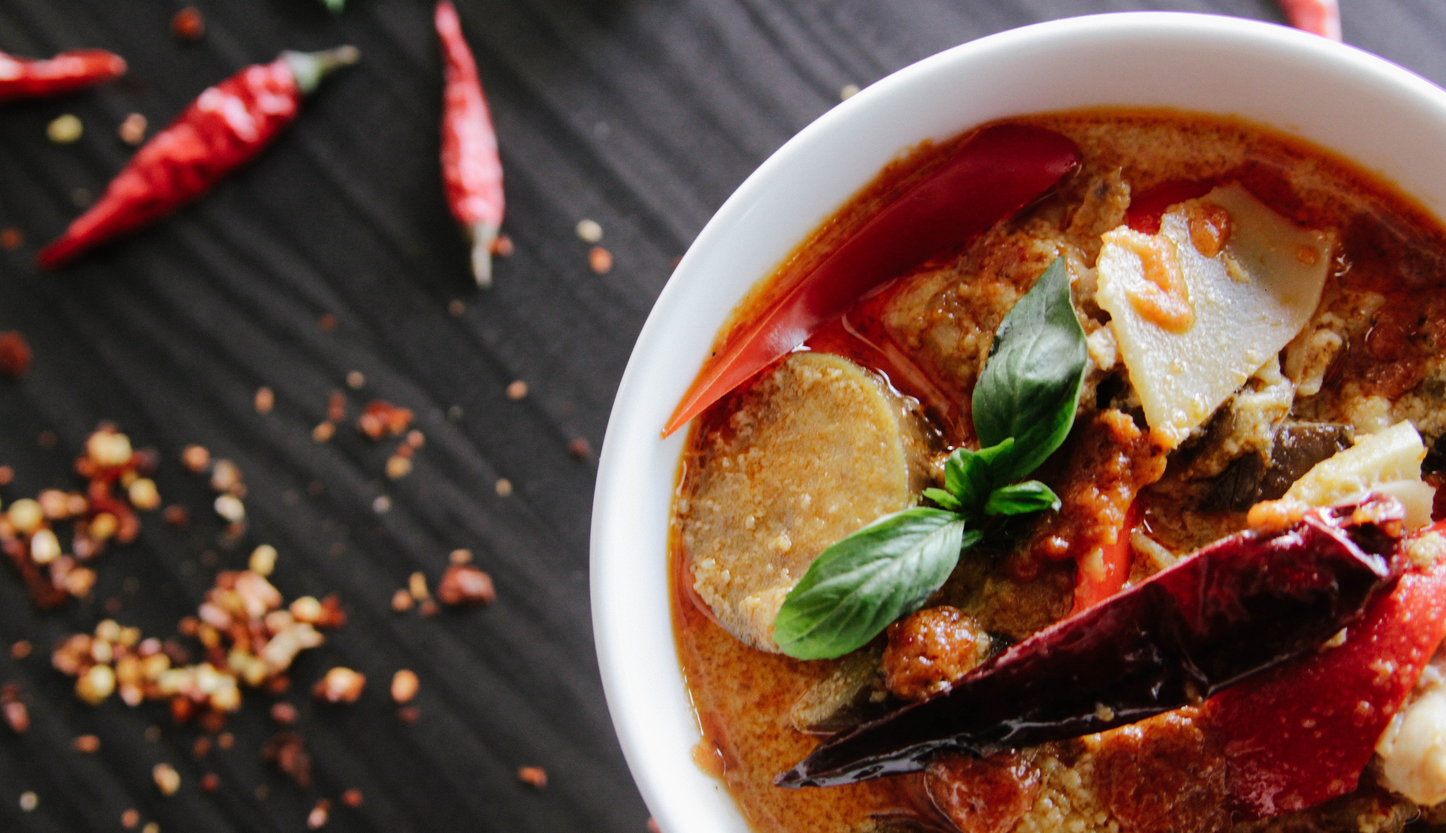
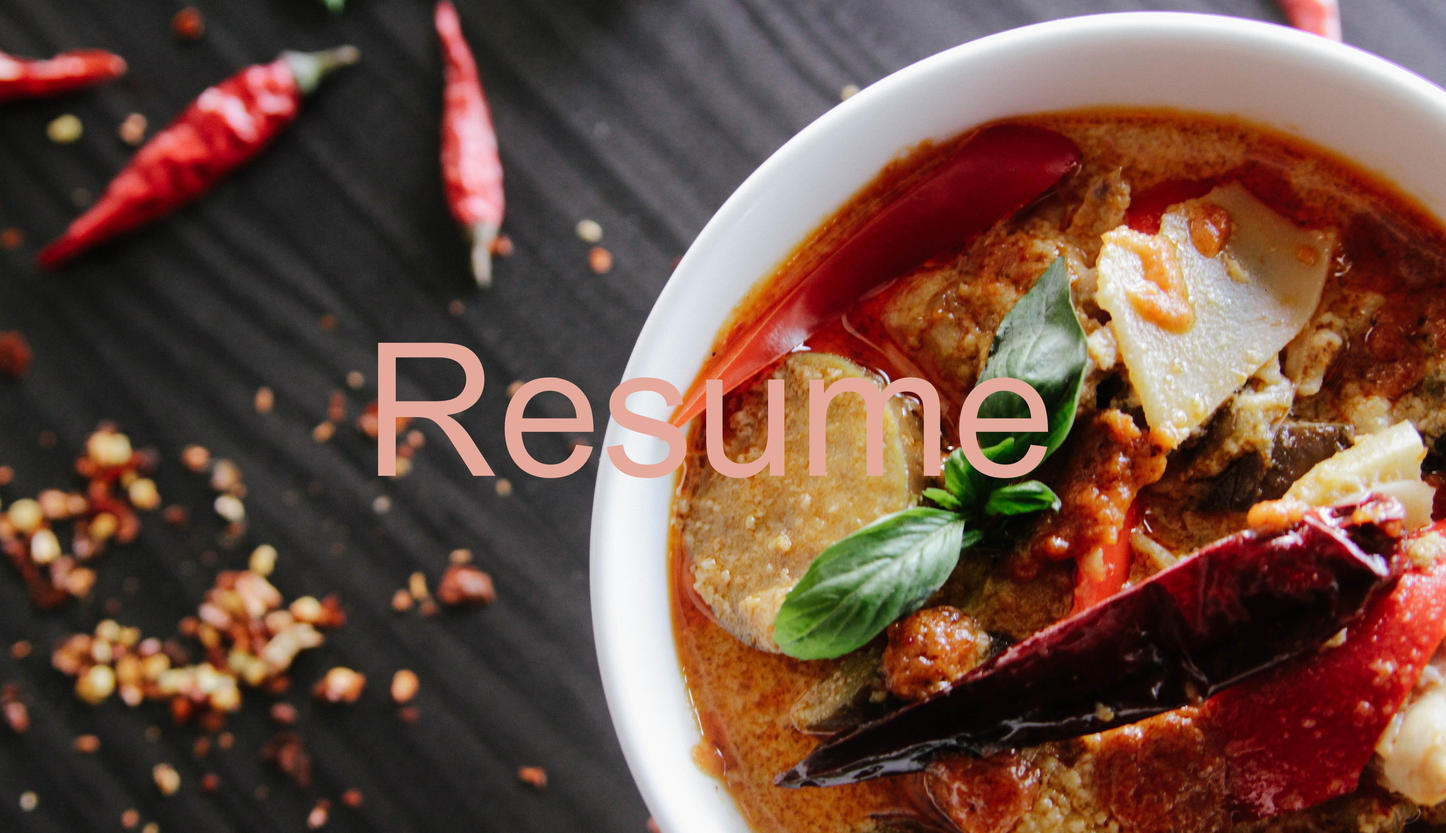
Added chevron to resume divider

Changed region(s): [[0.2485, 0.403, 0.7455, 0.5889]]

diff --git a/src/Components/PageDividers/ResumeDivider.js b/src/Components/PageDividers/ResumeDivider.js
@@ -2,7 +2,14 @@ import React from "react";
 import image from "./../photos/curry.jpg";
 
 const ResumeDivider = () => {
-  return <img src={image} alt="Portfolio" className="responsive" />;
+  return (
+    <div>
+      <img src={image} alt="Portfolio" className="responsive" />{" "}
+      <a href="#resume">
+        <i className="chevron circle down big icon pinkish bottom-middle" />
+      </a>
+    </div>
+  );
 };
 
 export default ResumeDivider;

diff --git a/src/Components/Menu/MenuList.js b/src/Components/Menu/MenuList.js
@@ -3,10 +3,9 @@ import { Menu } from "semantic-ui-react";
 
 const MenuList = props => {
   const menuItems = ["About Me", "Portfolio", "Resume", "Contact"];
-  console.log(menuItems);
 
   return (
-    <Menu inverted vertical color="grey" className="top-right-white">
+    <Menu inverted vertical color="grey" className="top-right white">
       {menuItems.map(item => (
         <Menu.Item name={item} key={item}>
           <a

diff --git a/src/App.js b/src/App.js
@@ -11,6 +11,8 @@ import ContactsContainer from "./Components/Contacts/ContactsContainer";
 import "semantic-ui-css/semantic.min.css";
 
 class App extends Component {
+  // Change Dividers to Divider component with props - image name, color
+  // Rethink menu items?
   render() {
     return (
       <div className="App">

diff --git a/src/App.css b/src/App.css
@@ -38,6 +38,10 @@ body {
   color: rgb(255, 248, 194);
 }
 
+.pinkish {
+  color: rgb(224, 159, 144);
+}
+
 .section-div {
   margin: 3%;
 }
